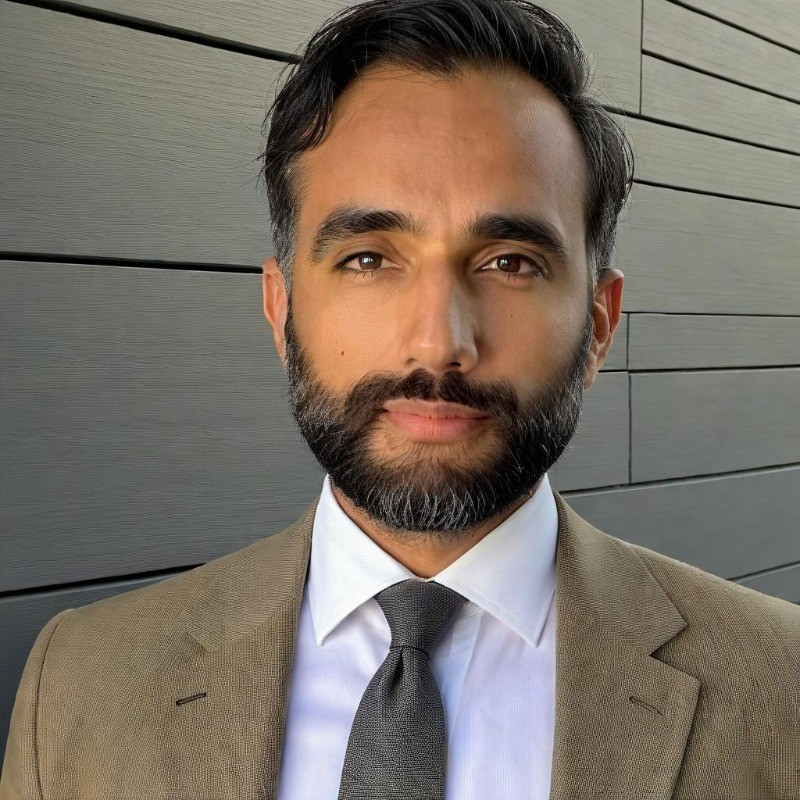
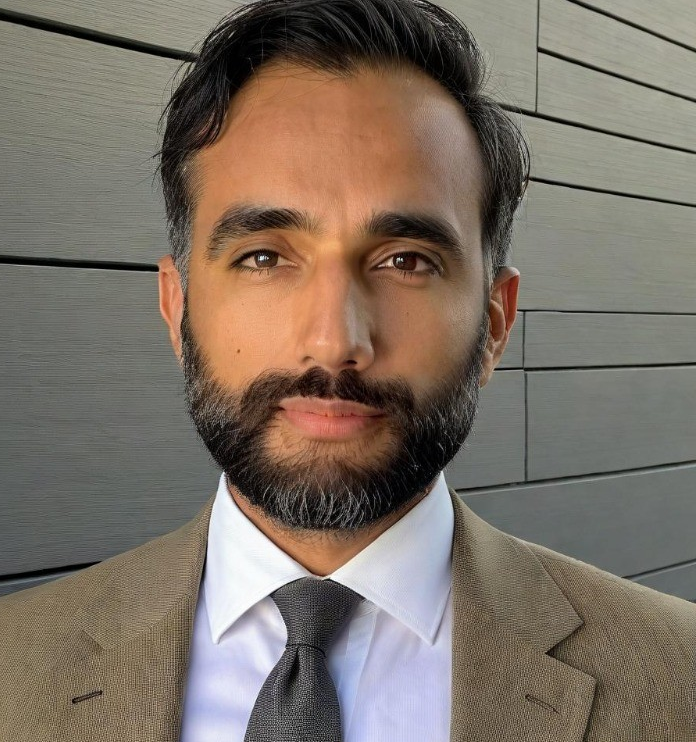
Add co-sponsors, fix speaker photos, RSVP other schools and remove/edit RSVP's

diff --git a/app/rsvp/manage/page.tsx b/app/rsvp/manage/page.tsx
@@ -23,7 +23,9 @@ type RSVPRecord = {
 const currentYear = new Date().getFullYear()
 const graduationYears = Array.from({ length: 6 }, (_, i) => currentYear + i)
 
-function Field({ label, value }: { label: string; value: string | null | undefined }) {
+const IVY_SCHOOL_NAMES = new Set(ivyLeagueSchools.map((s) => s.name))
+
+function Field({ label, value }: Readonly<{ label: string; value: string | null | undefined }>) {
   return (
     <div>
       <p className="text-[0.63rem] text-mid-gray tracking-wider uppercase font-medium mb-1">{label}</p>
@@ -40,34 +42,55 @@ export default function ManageRSVPPage() {
   const [record, setRecord] = useState<RSVPRecord | null>(null)
   const [editing, setEditing] = useState(false)
   const [editForm, setEditForm] = useState<Partial<RSVPRecord>>({})
+  const [schoolSelect, setSchoolSelect] = useState('')
+  const [otherSchool, setOtherSchool] = useState('')
   const [saveStatus, setSaveStatus] = useState<'idle' | 'saving' | 'saved' | 'error'>('idle')
 
-  const handleLookup = async (e: React.FormEvent) => {
+  const isIvySchool = (school: string) => IVY_SCHOOL_NAMES.has(school)
+
+  const hydrateSchoolState = (school: string) => {
+    if (isIvySchool(school)) {
+      setSchoolSelect(school)
+      setOtherSchool('')
+      setEditForm((p) => ({ ...p, school }))
+      return
+    }
+    setSchoolSelect('Other')
+    setOtherSchool(school)
+    setEditForm((p) => ({ ...p, school: 'Other' }))
+  }
+
+  const handleLookup = (e: React.SyntheticEvent<HTMLFormElement>) => {
     e.preventDefault()
     setLookupStatus('loading')
-    const { data } = await supabase
-      .from('rsvps')
-      .select('*')
-      .eq('email', email.trim().toLowerCase())
-      .single()
 
-    if (data) {
-      setRecord(data)
-      setEditForm(data)
-      setLookupStatus('found')
-    } else {
-      setLookupStatus('not_found')
-    }
+    void (async () => {
+      const { data } = await supabase
+        .from('rsvps')
+        .select('*')
+        .eq('email', email.trim().toLowerCase())
+        .single()
+
+      if (data) {
+        setRecord(data)
+        setEditForm(data)
+        hydrateSchoolState(data.school)
+        setLookupStatus('found')
+      } else {
+        setLookupStatus('not_found')
+      }
+    })()
   }
 
   const handleSave = async () => {
     if (!record) return
     setSaveStatus('saving')
+    const schoolToSave = schoolSelect === 'Other' ? otherSchool.trim() : schoolSelect
     const { error } = await supabase
       .from('rsvps')
       .update({
         full_name: editForm.full_name,
-        school: editForm.school,
+        school: schoolToSave,
         graduation_year: editForm.graduation_year,
         major: editForm.major || null,
         linkedin_url: editForm.linkedin_url || null,
@@ -78,7 +101,7 @@ export default function ManageRSVPPage() {
     if (error) {
       setSaveStatus('error')
     } else {
-      setRecord({ ...record, ...editForm } as RSVPRecord)
+      setRecord({ ...record, ...editForm, school: schoolToSave } as RSVPRecord)
       setSaveStatus('saved')
       setEditing(false)
       setTimeout(() => setSaveStatus('idle'), 2000)
@@ -140,7 +163,7 @@ export default function ManageRSVPPage() {
                     Registered
                   </div>
                   {!editing && (
-                    <button onClick={() => { setEditing(true); setEditForm(record) }}
+                    <button onClick={() => { setEditing(true); setEditForm(record); hydrateSchoolState(record.school) }}
                       className="inline-flex items-center gap-1.5 text-[0.75rem] text-near-black hover:text-gold transition-colors">
                       <Pencil size={12} /> Edit
                     </button>
@@ -167,39 +190,69 @@ export default function ManageRSVPPage() {
                 ) : (
                   <div className="space-y-4">
                     <div>
-                      <label className="block text-[0.65rem] text-mid-gray mb-1.5 tracking-wider uppercase font-medium">Full Name</label>
-                      <input type="text" value={editForm.full_name || ''} onChange={(e) => setEditForm(p => ({ ...p, full_name: e.target.value }))}
+                      <label htmlFor="edit_full_name" className="block text-[0.65rem] text-mid-gray mb-1.5 tracking-wider uppercase font-medium">Full Name</label>
+                      <input id="edit_full_name" type="text" value={editForm.full_name || ''} onChange={(e) => setEditForm(p => ({ ...p, full_name: e.target.value }))}
                         className="form-input w-full px-3.5 py-2.5 text-[0.85rem] text-near-black" />
                     </div>
                     <div>
-                      <label className="block text-[0.65rem] text-mid-gray mb-1.5 tracking-wider uppercase font-medium">School</label>
-                      <select value={editForm.school || ''} onChange={(e) => setEditForm(p => ({ ...p, school: e.target.value }))}
+                      <label htmlFor="edit_school" className="block text-[0.65rem] text-mid-gray mb-1.5 tracking-wider uppercase font-medium">School</label>
+                      <select
+                        id="edit_school"
+                        value={schoolSelect}
+                        onChange={(e) => {
+                          const next = e.target.value
+                          setSchoolSelect(next)
+                          setEditForm((p) => ({ ...p, school: next }))
+                          if (next !== 'Other') setOtherSchool('')
+                        }}
                         className="form-input w-full px-3.5 py-2.5 text-[0.85rem] text-near-black appearance-none">
+                        <option value="">Select your school</option>
                         {ivyLeagueSchools.map((s) => <option key={s.name} value={s.name}>{s.name}</option>)}
+                        <option value="Other">Other</option>
                       </select>
                     </div>
+                    <AnimatePresence>
+                      {schoolSelect === 'Other' && (
+                        <motion.div
+                          variants={fadeInUp}
+                          initial="hidden"
+                          animate="visible"
+                          exit={{ opacity: 0, y: -4 }}
+                        >
+                          <label htmlFor="edit_other_school" className="block text-[0.65rem] text-mid-gray mb-1.5 tracking-wider uppercase font-medium">School Name</label>
+                          <input
+                            id="edit_other_school"
+                            type="text"
+                            value={otherSchool}
+                            onChange={(e) => setOtherSchool(e.target.value)}
+                            className="form-input w-full px-3.5 py-2.5 text-[0.85rem] text-near-black"
+                            placeholder="Enter your school"
+                          />
+                        </motion.div>
+                      )}
+                    </AnimatePresence>
                     <div className="grid grid-cols-2 gap-4">
                       <div>
-                        <label className="block text-[0.65rem] text-mid-gray mb-1.5 tracking-wider uppercase font-medium">Grad Year</label>
-                        <select value={editForm.graduation_year || currentYear} onChange={(e) => setEditForm(p => ({ ...p, graduation_year: Number(e.target.value) }))}
+                        <label htmlFor="edit_graduation_year" className="block text-[0.65rem] text-mid-gray mb-1.5 tracking-wider uppercase font-medium">Grad Year</label>
+                        <select id="edit_graduation_year" value={editForm.graduation_year || currentYear} onChange={(e) => setEditForm(p => ({ ...p, graduation_year: Number(e.target.value) }))}
                           className="form-input w-full px-3.5 py-2.5 text-[0.85rem] text-near-black appearance-none">
                           {graduationYears.map((y) => <option key={y} value={y}>{y}</option>)}
                         </select>
                       </div>
                       <div>
-                        <label className="block text-[0.65rem] text-mid-gray mb-1.5 tracking-wider uppercase font-medium">Major</label>
-                        <input type="text" value={editForm.major || ''} onChange={(e) => setEditForm(p => ({ ...p, major: e.target.value }))}
+                        <label htmlFor="edit_major" className="block text-[0.65rem] text-mid-gray mb-1.5 tracking-wider uppercase font-medium">Major</label>
+                        <input id="edit_major" type="text" value={editForm.major || ''} onChange={(e) => setEditForm(p => ({ ...p, major: e.target.value }))}
                           className="form-input w-full px-3.5 py-2.5 text-[0.85rem] text-near-black" placeholder="e.g. CS" />
                       </div>
                     </div>
                     <div>
-                      <label className="block text-[0.65rem] text-mid-gray mb-1.5 tracking-wider uppercase font-medium">LinkedIn URL</label>
-                      <input type="url" value={editForm.linkedin_url || ''} onChange={(e) => setEditForm(p => ({ ...p, linkedin_url: e.target.value }))}
+                      <label htmlFor="edit_linkedin_url" className="block text-[0.65rem] text-mid-gray mb-1.5 tracking-wider uppercase font-medium">LinkedIn URL</label>
+                      <input id="edit_linkedin_url" type="url" value={editForm.linkedin_url || ''} onChange={(e) => setEditForm(p => ({ ...p, linkedin_url: e.target.value }))}
                         className="form-input w-full px-3.5 py-2.5 text-[0.85rem] text-near-black" placeholder="https://linkedin.com/in/..." />
                     </div>
                     <div>
-                      <label className="block text-[0.65rem] text-mid-gray mb-1.5 tracking-wider uppercase font-medium">Dietary Restrictions</label>
-                      <input type="text" value={editForm.dietary_restrictions || ''} onChange={(e) => setEditForm(p => ({ ...p, dietary_restrictions: e.target.value }))}
+                      <label htmlFor="edit_dietary_restrictions" className="block text-[0.65rem] text-mid-gray mb-1.5 tracking-wider uppercase font-medium">Dietary Restrictions</label>
+                      <input id="edit_dietary_restrictions" type="text" value={editForm.dietary_restrictions || ''} onChange={(e) => setEditForm(p => ({ ...p, dietary_restrictions: e.target.value }))}
                         className="form-input w-full px-3.5 py-2.5 text-[0.85rem] text-near-black" placeholder="Vegetarian, vegan, allergies..." />
                     </div>
                     <div className="flex gap-3 pt-1">
@@ -208,7 +261,7 @@ export default function ManageRSVPPage() {
                           : saveStatus === 'saved' ? <><Check className="w-4 h-4" /> Saved</>
                           : 'Save Changes'}
                       </button>
-                      <button onClick={() => setEditing(false)} className="btn-secondary px-5">Cancel</button>
+                      <button onClick={() => { setEditing(false); if (record) hydrateSchoolState(record.school) }} className="btn-secondary px-5">Cancel</button>
                     </div>
                     {saveStatus === 'error' && <p className="text-[0.8rem] text-destructive">Something went wrong. Please try again.</p>}
                   </div>

diff --git a/components/forms/rsvp-form.tsx b/components/forms/rsvp-form.tsx
@@ -21,6 +21,7 @@ export function RSVPForm() {
     linkedin_url: '',
     dietary_restrictions: '',
   })
+  const [otherSchool, setOtherSchool] = useState('')
   const [status, setStatus] = useState<'idle' | 'loading' | 'success' | 'error'>('idle')
   const [errorMsg, setErrorMsg] = useState('')
 
@@ -28,34 +29,43 @@ export function RSVPForm() {
     setForm((prev) => ({ ...prev, [field]: value }))
   }
 
-  const handleSubmit = async (e: React.FormEvent) => {
+  const handleSubmit = (e: React.SyntheticEvent<HTMLFormElement>) => {
     e.preventDefault()
     setStatus('loading')
     setErrorMsg('')
 
-    try {
-      const { error } = await supabase.from('rsvps').insert([{
-        full_name: form.full_name.trim(),
-        email: form.email.trim().toLowerCase(),
-        school: form.school,
-        graduation_year: form.graduation_year,
-        major: form.major.trim() || null,
-        linkedin_url: form.linkedin_url.trim() || null,
-        dietary_restrictions: form.dietary_restrictions.trim() || null,
-      }])
+    void (async () => {
+      try {
+        const schoolToSave = form.school === 'Other' ? otherSchool.trim() : form.school
+        if (!schoolToSave) {
+          setErrorMsg('Please enter your school.')
+          setStatus('error')
+          return
+        }
 
-      if (error) {
-        setErrorMsg(error.code === '23505'
-          ? 'This email has already been registered. See you there!'
-          : 'Something went wrong. Please try again.')
+        const { error } = await supabase.from('rsvps').insert([{
+          full_name: form.full_name.trim(),
+          email: form.email.trim().toLowerCase(),
+          school: schoolToSave,
+          graduation_year: form.graduation_year,
+          major: form.major.trim() || null,
+          linkedin_url: form.linkedin_url.trim() || null,
+          dietary_restrictions: form.dietary_restrictions.trim() || null,
+        }])
+
+        if (error) {
+          setErrorMsg(error.code === '23505'
+            ? 'This email has already been registered. See you there!'
+            : 'Something went wrong. Please try again.')
+          setStatus('error')
+          return
+        }
+        setStatus('success')
+      } catch {
+        setErrorMsg('Something went wrong. Please try again.')
         setStatus('error')
-        return
       }
-      setStatus('success')
-    } catch {
-      setErrorMsg('Something went wrong. Please try again.')
-      setStatus('error')
-    }
+    })()
   }
 
   if (status === 'success') {
@@ -106,12 +116,45 @@ export function RSVPForm() {
           <label htmlFor="school" className="block text-[0.68rem] text-muted-foreground mb-1.5 tracking-wider uppercase font-medium">
             School <span className="text-gold">*</span>
           </label>
-          <select id="school" required value={form.school} onChange={(e) => update('school', e.target.value)}
+          <select
+            id="school"
+            required
+            value={form.school}
+            onChange={(e) => {
+              const next = e.target.value
+              update('school', next)
+              if (next !== 'Other') setOtherSchool('')
+            }}
             className="form-input w-full px-3.5 py-2.5 text-[0.85rem] text-near-black appearance-none cursor-pointer">
             <option value="">Select your school</option>
             {ivyLeagueSchools.map((s) => <option key={s.name} value={s.name}>{s.name}</option>)}
+            <option value="Other">Other</option>
           </select>
         </div>
+
+        <AnimatePresence>
+          {form.school === 'Other' && (
+            <motion.div
+              variants={fadeInUp}
+              initial="hidden"
+              animate="visible"
+              exit={{ opacity: 0, y: -4 }}
+            >
+              <label htmlFor="other_school" className="block text-[0.68rem] text-muted-foreground mb-1.5 tracking-wider uppercase font-medium">
+                School Name <span className="text-gold">*</span>
+              </label>
+              <input
+                id="other_school"
+                type="text"
+                required
+                value={otherSchool}
+                onChange={(e) => setOtherSchool(e.target.value)}
+                className="form-input w-full px-3.5 py-2.5 text-[0.85rem] text-near-black placeholder:text-muted-foreground/40"
+                placeholder="Enter your school"
+              />
+            </motion.div>
+          )}
+        </AnimatePresence>
 
         <div className="grid grid-cols-2 gap-4">
           <div>

diff --git a/components/sections/speakers.tsx b/components/sections/speakers.tsx
@@ -6,7 +6,7 @@ import { speakers } from '@/lib/content'
 import { fadeInUp, stagger, viewport } from '@/lib/animations'
 import type { Speaker } from '@/lib/types'
 
-function SpeakerPhoto({ speaker }: { speaker: Speaker }) {
+function SpeakerPhoto({ speaker }: Readonly<{ speaker: Speaker }>) {
   if (speaker.image) {
     return (
       <div className="w-12 h-12 rounded-full overflow-hidden border border-cream-border flex-shrink-0 bg-cream">
@@ -28,7 +28,7 @@ function SpeakerPhoto({ speaker }: { speaker: Speaker }) {
   )
 }
 
-function SpeakerCard({ speaker }: { speaker: Speaker }) {
+function SpeakerCard({ speaker }: Readonly<{ speaker: Speaker }>) {
   return (
     <motion.div variants={fadeInUp} className="card p-5 md:p-6 flex flex-col h-full">
       <div className="flex items-start gap-3.5">
@@ -47,7 +47,7 @@ function SpeakerCard({ speaker }: { speaker: Speaker }) {
   )
 }
 
-function SpeakerPanel({ title, panelSpeakers }: { title: string; panelSpeakers: Speaker[] }) {
+function SpeakerPanel({ title, panelSpeakers }: Readonly<{ title: string; panelSpeakers: Speaker[] }>) {
   return (
     <motion.div
       initial="hidden"

diff --git a/app/admin/page.tsx b/app/admin/page.tsx
@@ -400,7 +400,15 @@ export default function AdminPage() {
                             )}
                           </td>
                           <td className="px-4 py-3 text-[0.78rem] text-white/70 whitespace-nowrap">
-                            {SCHOOL_SHORT[r.school] ?? r.school}
+                            {isEditing ? (
+                              <input
+                                className="bg-white/[0.07] border border-white/15 rounded px-2 py-1 text-[0.8rem] text-white w-44"
+                                value={editValues.school ?? ''}
+                                onChange={(e) => setEditValues((v) => ({ ...v, school: e.target.value }))}
+                              />
+                            ) : (
+                              SCHOOL_SHORT[r.school] ?? r.school
+                            )}
                           </td>
                           <td className="px-4 py-3 text-[0.78rem] text-white/55 whitespace-nowrap">
                             {isEditing ? (

diff --git a/lib/content.ts b/lib/content.ts
@@ -88,6 +88,7 @@ export const speakers: Speaker[] = [
     organization: 'Blackstone',
     bio: 'Private Equity Associate at Blackstone Capital Partners. Previously an Investment Banking Analyst at Evercore in Liability Management & Restructuring and a Special Situations Analyst at APL Group covering real estate and digital infrastructure. Wharton School B.S. in Finance and Accounting, Summa Cum Laude.',
     initials: 'JS',
+    image: '/speakers/jaspreet-singh.jpg',
     isRevealed: true,
     panel: 'earlyCareer',
   },

diff --git a/components/sections/hero.tsx b/components/sections/hero.tsx
@@ -50,6 +50,13 @@ export function Hero() {
             {siteConfig.description}
           </motion.p>
 
+          <motion.p
+            variants={fadeInUp}
+            className="text-[0.78rem] text-white/40 tracking-wide mb-9"
+          >
+            Co-Sponsored by United Sikh Movement (USM) and Sikhs of NY (SONY)
+          </motion.p>
+
           <motion.div
             variants={fadeInUp}
             className="flex flex-col sm:flex-row items-center justify-center gap-3 mb-12"
